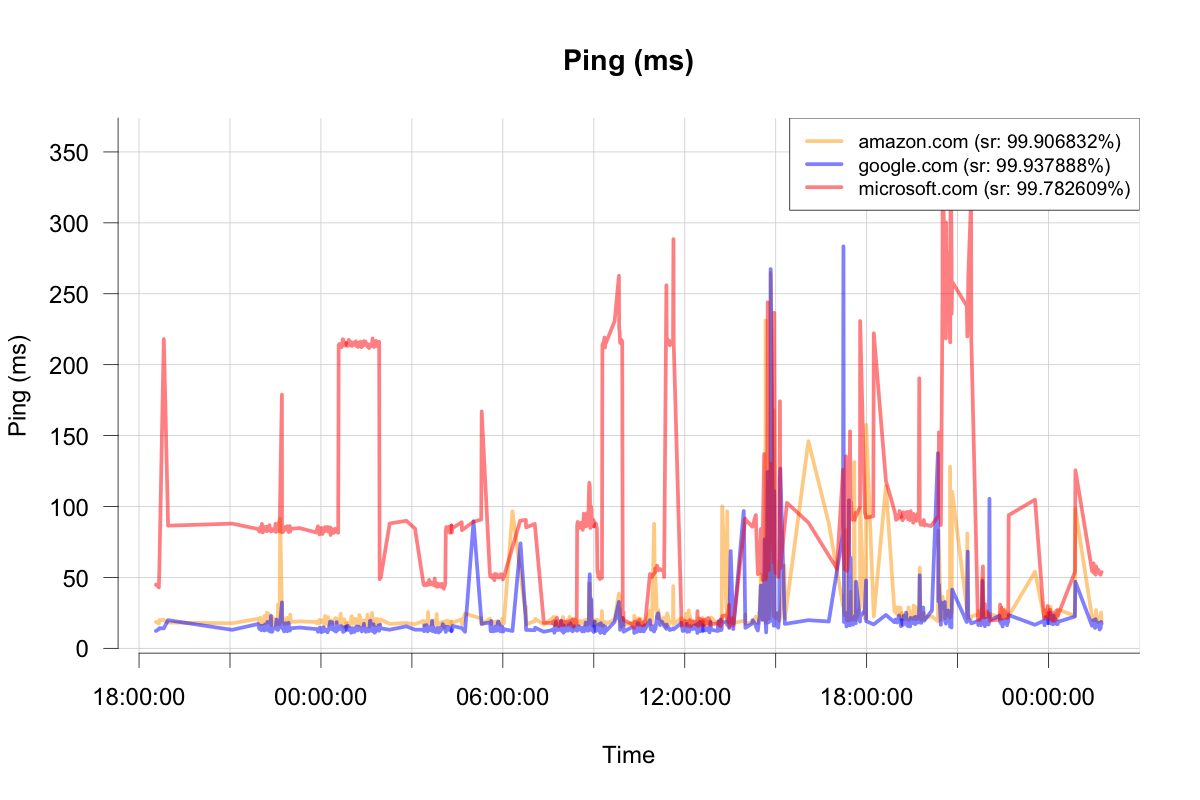
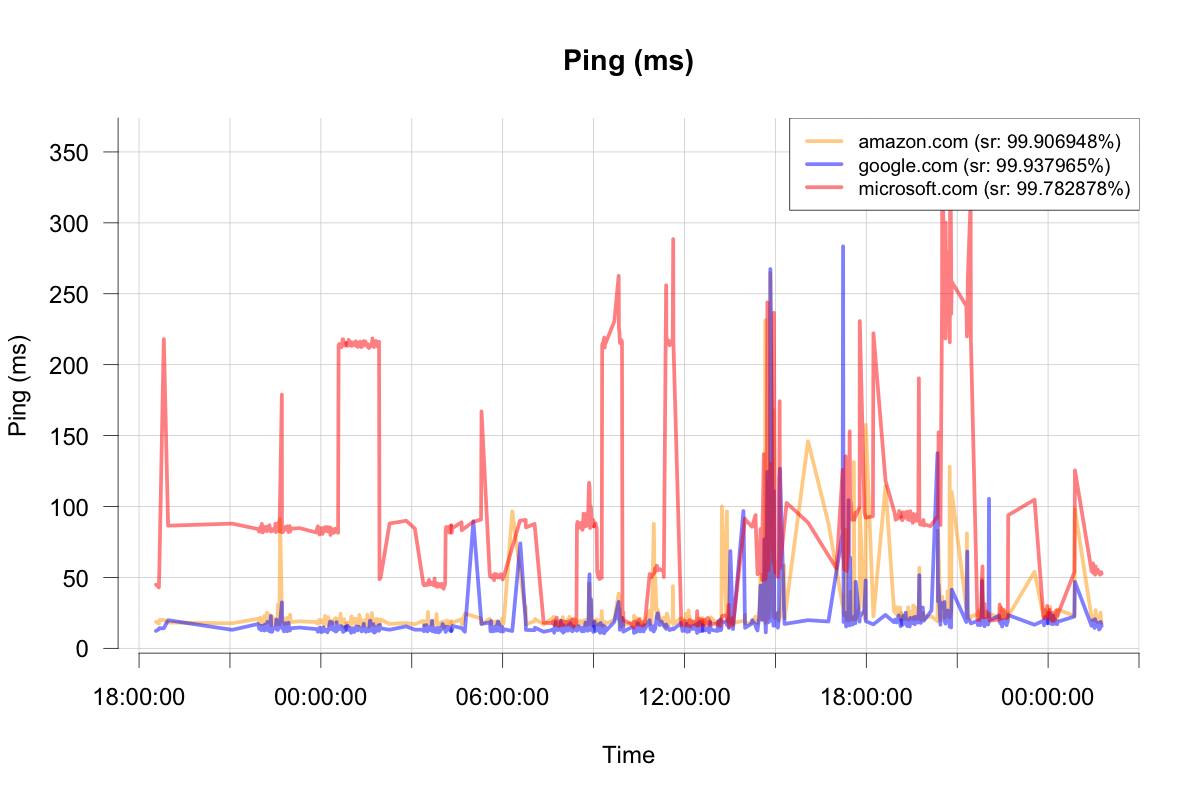
update netmon

diff --git a/netmon/index.html b/netmon/index.html
@@ -1,10 +1,7 @@
-Network Monitor - last updated Sun Oct 20 01:45:10 EDT 2024
+Network Monitor - last updated Sun Oct 20 01:46:10 EDT 2024
 ![Ping](netmon.png)
 ```
 time                 site           snd  rec  min_ms  avg_ms  max_ms  sd
-2024-10-20 01:26:00  google.com     4    4    13.610  15.889  19.231  2.071
-2024-10-20 01:26:04  amazon.com     4    4    19.073  21.803  23.967  1.916
-2024-10-20 01:26:07  microsoft.com  4    4    51.884  54.443  58.454  2.721
 2024-10-20 01:27:00  google.com     4    4    14.293  18.952  24.866  3.799
 2024-10-20 01:27:04  amazon.com     4    4    19.484  22.157  25.123  2.448
 2024-10-20 01:27:07  microsoft.com  4    4    54.467  55.651  58.521  1.678
@@ -62,6 +59,9 @@ time                 site           snd  rec  min_ms  avg_ms  max_ms  sd
 2024-10-20 01:45:00  google.com     4    4    13.166  17.419  23.912  4.071
 2024-10-20 01:45:03  amazon.com     4    4    16.128  19.057  20.596  1.732
 2024-10-20 01:45:07  microsoft.com  4    4    50.566  53.763  56.881  2.589
+2024-10-20 01:46:01  google.com     4    4    13.720  15.736  17.448  1.343
+2024-10-20 01:46:04  amazon.com     4    4    16.453  18.053  18.632  0.925
+2024-10-20 01:46:07  microsoft.com  4    4    48.911  52.764  57.471  3.298
 ```
 
 <!-- This will refresh the page every 60 seconds -->
